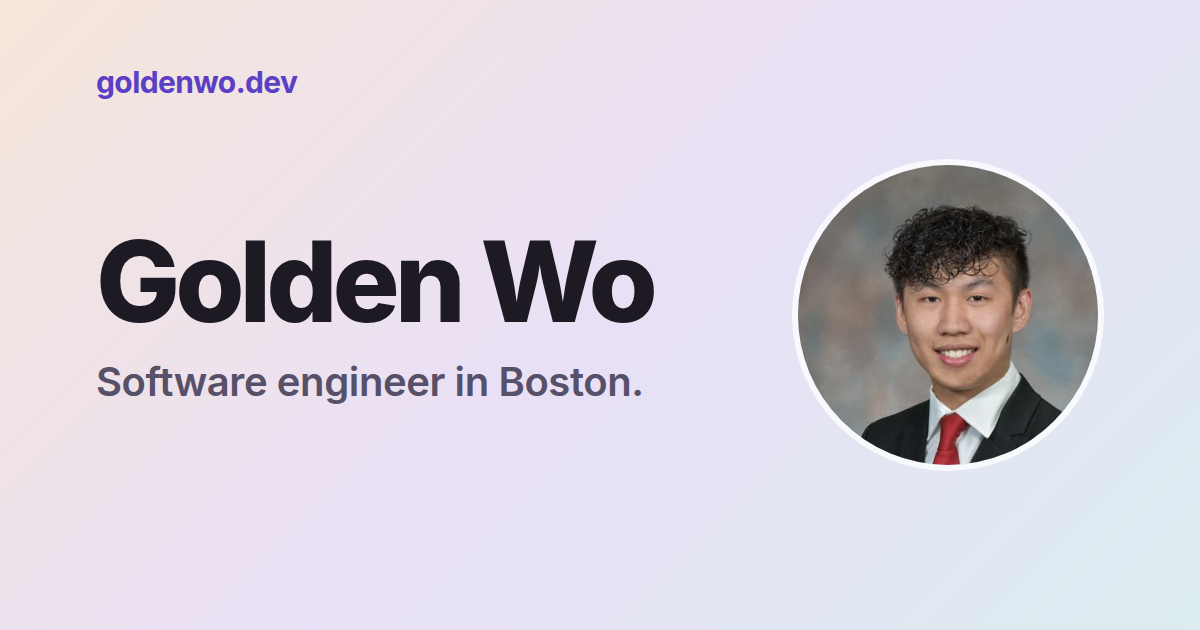
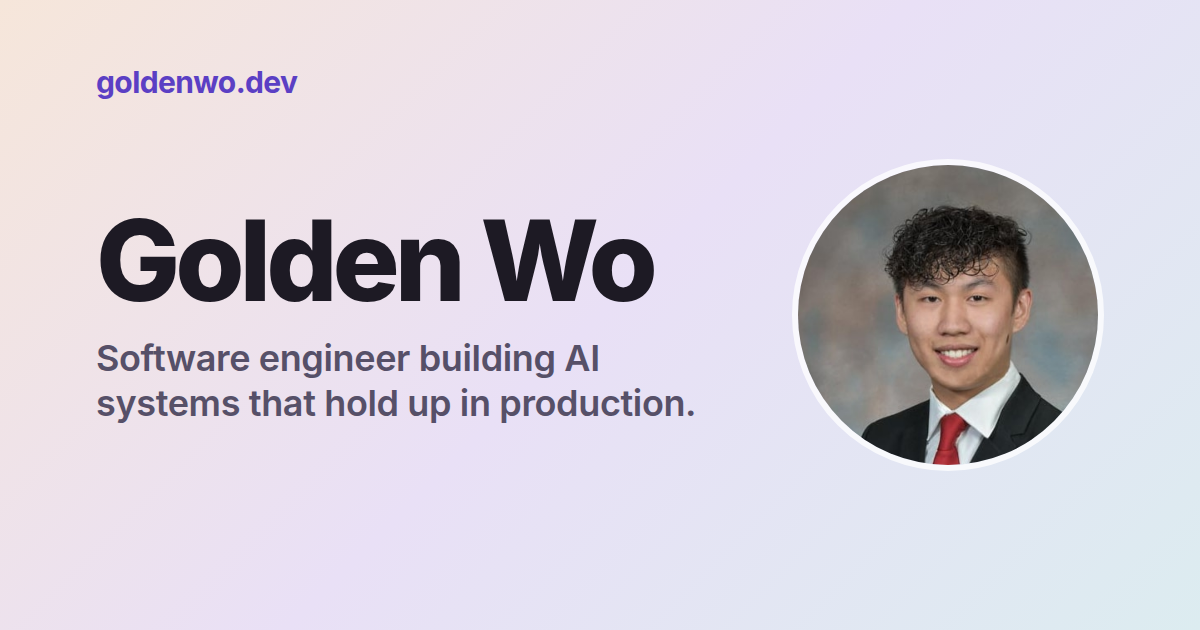
feat(content): position the site around reliable AI systems
Rewrites the copy to match the owner's career direction: an AI-focused
headline and bio, a new Focus section (agent reliability, AI-driven
development, regulated environments), the Fidelity years as a progression
from frontend platform work to AI-driven development, Blindly framed as
where side projects are built, and projects led by a Reliability group
with two private repositories described but not linked.

Drops product-search-ai-agent. Adds tests that keep job-seeking language
off the site, keep Angular out of the pitch, and keep the OG image text in
sync with the headline. OG image regenerated.

Claude-Session: https://claude.ai/code/session_01JG28dVRFy6Rk7WUEe7BRfQ

Changed region(s): [[0.0617, 0.3317, 0.555, 0.5127], [0.0617, 0.5429, 0.5858, 0.6635]]

diff --git a/src/data/projects.ts b/src/data/projects.ts
@@ -1,18 +1,21 @@
 import type { Project, ProjectGroupInfo } from './types';
 
 export const groups: ProjectGroupInfo[] = [
+  { id: 'reliability', title: 'Reliability' },
   { id: 'agent-tooling', title: 'Agent tooling' },
   { id: 'research', title: 'Research and data' },
 ];
 
 export const projects: Project[] = [
   {
-    id: 'universal-memory',
-    name: 'universal-memory',
-    tagline: 'Memory for LLM agents',
-    description: 'Self-hosted, markdown-first memory that follows your agents across devices and sessions.',
-    group: 'agent-tooling',
-    links: { source: 'https://github.com/goldenwo/universal-memory' },
+    id: 'claude-harness-toolkit',
+    name: 'claude-harness-toolkit',
+    tagline: 'Adversarial review harness for Claude Code',
+    description:
+      'Multi-round spec and plan review across 17 defect-class lenses, with automatic convergence detection. In blind runs it caught 11 of 11 planted defects.',
+    group: 'reliability',
+    links: {},
+    private: true,
   },
   {
     id: 'claude-state-drift',
@@ -20,8 +23,26 @@ export const projects: Project[] = [
     tagline: 'Keeps long Claude Code sessions on track',
     description:
       'A per-project state layer: an orientation block at session start, the goal re-injected as you work, and a nudge when state goes stale.',
-    group: 'agent-tooling',
+    group: 'reliability',
     links: { source: 'https://github.com/goldenwo/claude-state-drift' },
+  },
+  {
+    id: 'fleet-watchdog',
+    name: 'fleet-watchdog',
+    tagline: 'A dead box can’t silence its own alarm',
+    description:
+      'Dead-man’s switch for a Raspberry Pi service fleet: the Pi checks in every five minutes, and a Cloudflare Worker raises the alert when check-ins stop.',
+    group: 'reliability',
+    links: {},
+    private: true,
+  },
+  {
+    id: 'universal-memory',
+    name: 'universal-memory',
+    tagline: 'Memory for LLM agents',
+    description: 'Self-hosted, markdown-first memory that follows your agents across devices and sessions.',
+    group: 'agent-tooling',
+    links: { source: 'https://github.com/goldenwo/universal-memory' },
   },
   {
     id: 'attune',
@@ -46,13 +67,5 @@ export const projects: Project[] = [
     description: 'Curated summaries from 35 vetted accounts, refreshed every four hours by a Raspberry Pi.',
     group: 'research',
     links: { site: 'https://goldenwo.github.io/ai-x-feed/', source: 'https://github.com/goldenwo/ai-x-feed' },
-  },
-  {
-    id: 'product-search-ai-agent',
-    name: 'product-search-ai-agent',
-    tagline: 'Shopping research agent',
-    description: 'A FastAPI agent that turns a product search into a short list of the best options.',
-    group: 'research',
-    links: { source: 'https://github.com/goldenwo/product-search-ai-agent' },
   },
 ];

diff --git a/tests/unit/content.test.ts b/tests/unit/content.test.ts
@@ -1,4 +1,4 @@
-import { existsSync } from 'node:fs';
+import { existsSync, readFileSync } from 'node:fs';
 import { expect, test } from 'vitest';
 import { content } from '../../src/data/content';
 import { validateContent } from '../../src/data/validate';
@@ -9,16 +9,38 @@ test('shipped content passes validation', () => {
   expect(validateContent(content, inPublic)).toEqual([]);
 });
 
-test('three timeline rows, newest first', () => {
-  expect(content.roles.map((r) => r.id)).toEqual(['fidelity', 'state-street', 'umass']);
+test('timeline shows the Fidelity progression, newest first', () => {
+  expect(content.roles.map((r) => r.id)).toEqual(['fidelity-ai', 'fidelity-platform', 'state-street', 'umass']);
 });
 
-test('six projects in two groups of three', () => {
-  expect(content.groups.map((g) => g.id)).toEqual(['agent-tooling', 'research']);
-  expect(content.projects.filter((p) => p.group === 'agent-tooling').map((p) => p.id)).toEqual(['universal-memory', 'claude-state-drift', 'attune']);
-  expect(content.projects.filter((p) => p.group === 'research').map((p) => p.id)).toEqual(['edge-catcher', 'ai-x-feed', 'product-search-ai-agent']);
+test('focus lists the three things to be known for', () => {
+  expect(content.focus.map((f) => f.title)).toEqual(['Agent reliability', 'AI-driven development', 'Regulated environments']);
+});
+
+test('projects lead with reliability', () => {
+  expect(content.groups.map((g) => g.id)).toEqual(['reliability', 'agent-tooling', 'research']);
+  const ids = (group: string) => content.projects.filter((p) => p.group === group).map((p) => p.id);
+  expect(ids('reliability')).toEqual(['claude-harness-toolkit', 'claude-state-drift', 'fleet-watchdog']);
+  expect(ids('agent-tooling')).toEqual(['universal-memory', 'attune']);
+  expect(ids('research')).toEqual(['edge-catcher', 'ai-x-feed']);
+  expect(content.projects.filter((p) => p.private).map((p) => p.id)).toEqual(['claude-harness-toolkit', 'fleet-watchdog']);
 });
 
 test('the studio art ships with the site', () => {
   expect(inPublic(content.studio.featured.art.src)).toBe(true);
+});
+
+// Positioning rules from the owner's career-direction brief.
+test('no job-seeking language anywhere while still employed', () => {
+  expect(JSON.stringify(content)).not.toMatch(/open to (work|roles|opportunities)|looking for|job search|available for hire|#opentowork/i);
+});
+
+test('Angular is evidence, never the pitch', () => {
+  for (const text of [content.site.headline, content.site.bio, content.site.description, ...content.focus.map((f) => f.text)]) {
+    expect(text).not.toMatch(/angular/i);
+  }
+});
+
+test('the OG image carries the current headline', () => {
+  expect(readFileSync('scripts/make-images.mjs', 'utf8')).toContain(content.site.headline);
 });

diff --git a/tests/e2e/home.spec.ts b/tests/e2e/home.spec.ts
@@ -2,6 +2,7 @@ import { test, expect } from '@playwright/test';
 import { findPrivateData } from '../../src/privacy.mjs';
 import { roles } from '../../src/data/experience';
 import { groups, projects } from '../../src/data/projects';
+import { focus } from '../../src/data/focus';
 import { site } from '../../src/data/site';
 import { studio } from '../../src/data/studio';
 
@@ -122,9 +123,12 @@ test('the nav stays on one line down to 320px', async ({ page }) => {
 test('a lone last project card spans the row in the two-column layout', async ({ page }) => {
   await page.setViewportSize({ width: 768, height: 900 });
   for (const grid of await page.locator('#projects .grid').all()) {
+    const cards = grid.locator('.card');
     const gridBox = (await grid.boundingBox())!;
-    const lastBox = (await grid.locator('.card').last().boundingBox())!;
-    expect(Math.round(lastBox.width)).toBe(Math.round(gridBox.width));
+    const lastBox = (await cards.last().boundingBox())!;
+    const firstBox = (await cards.first().boundingBox())!;
+    if ((await cards.count()) % 2 === 1) expect(Math.round(lastBox.width)).toBe(Math.round(gridBox.width));
+    else expect(Math.round(lastBox.width)).toBe(Math.round(firstBox.width));
   }
 });
 
@@ -135,4 +139,19 @@ test('on phones the organisation gets its own line, without a separator', async 
   await expect(first.locator('.sep')).toBeHidden();
   await page.setViewportSize({ width: 1280, height: 900 });
   await expect(first.locator('.sep')).toBeVisible();
+});
+
+test('focus sits between the hero and experience, with the three items in order', async ({ page }) => {
+  await expect(page.locator('#focus h3')).toHaveText(focus.map((f) => f.title));
+  await expect(page.locator('#focus p')).toHaveText(focus.map((f) => f.text));
+  const order = await page.locator('main > section').evaluateAll((els) => els.map((e) => e.id));
+  expect(order.slice(0, 3)).toEqual(['top', 'focus', 'experience']);
+});
+
+test('private projects are described but never linked', async ({ page }) => {
+  for (const p of projects.filter((x) => x.private)) {
+    const card = page.locator(`[data-project="${p.id}"]`);
+    await expect(card.locator('.private')).toHaveText('Private repository');
+    await expect(card.locator('a')).toHaveCount(0);
+  }
 });

diff --git a/src/data/site.ts b/src/data/site.ts
@@ -5,12 +5,12 @@ export const site: Site = {
   url: 'https://goldenwo.dev',
   title: 'Golden Wo · Software engineer',
   description:
-    'Golden Wo is a software engineer in Boston working on front-end platforms, AI agent tooling and market research, and the founder of Blindly.',
-  headline: 'Software engineer in Boston.',
-  bio: "I'm a full-stack engineer at Fidelity Investments, where I build the shared Angular libraries and micro-frontends other teams build on, and lately the LLM tooling around them. Outside work I run Blindly, a small software studio for games, agent tooling and market research.",
+    'Golden Wo is a software engineer in Boston building AI systems that hold up in production: agent reliability, AI-driven development, and software for regulated environments.',
+  headline: 'Software engineer building AI systems that hold up in production.',
+  bio: 'I learned engineering inside regulated finance. At Fidelity I went from frontend platform work to AI-driven code migrations and AI developer tooling. On my own time I build under Blindly, from agent tooling to a game I’m making for fun. Based in Boston.',
   jobTitle: 'Software Engineer',
   links: { linkedin: 'https://www.linkedin.com/in/goldenwo/', github: 'https://github.com/goldenwo' },
   resumePdf: null,
   photoAlt: 'Portrait of Golden Wo',
-  ogImageAlt: 'Golden Wo, software engineer in Boston',
+  ogImageAlt: 'Golden Wo, software engineer building AI systems that hold up in production',
 };

diff --git a/tests/unit/validate.test.ts b/tests/unit/validate.test.ts
@@ -25,6 +25,7 @@ const valid = (): Content => ({
     { id: 'tool', name: 'tool', tagline: 'A tool', description: 'Does things.', group: 'agent-tooling', links: { source: 'https://github.com/someone/tool' } },
     { id: 'study', name: 'study', tagline: 'A study', description: 'Finds things.', group: 'research', links: {} },
   ],
+  focus: [{ title: 'Focus', text: 'What I work on.' }],
   studio: {
     name: 'Studio',
     url: 'https://studio.example/',
@@ -90,6 +91,20 @@ describe('validateContent', () => {
     expect(validateContent(c, (path) => path === '/cv.pdf')).toEqual([]);
     c.site.resumePdf = 'cv.docx';
     expect(validateContent(c, () => true)).toContain('site.resumePdf must be an absolute path to a .pdf');
+  });
+
+  test('a private project carries no links', () => {
+    const c = valid();
+    c.projects[0].private = true;
+    expect(validateContent(c, noFiles)).toContain('project tool: a private project cannot have links');
+    c.projects[0].links = {};
+    expect(validateContent(c, noFiles)).toEqual([]);
+  });
+
+  test('focus items need a title and text', () => {
+    const c = valid();
+    c.focus.push({ title: ' ', text: '' });
+    expect(validateContent(c, noFiles)).toContain('focus 1: needs a title and text');
   });
 
   test('rejects email addresses and phone numbers anywhere in the content', () => {

diff --git a/src/data/experience.ts b/src/data/experience.ts
@@ -3,11 +3,18 @@ import type { Role } from './types';
 // Source: the owner's résumé as of 2026-10-05 (marked old). Replace from the updated résumé when it arrives.
 export const roles: Role[] = [
   {
-    id: 'fidelity',
-    when: '2023 – now',
-    title: 'Full-Stack Software Engineer',
+    id: 'fidelity-ai',
+    when: '2026 – now',
+    title: 'Software Engineer',
     org: 'Fidelity Investments',
-    summary: 'Shared Angular libraries and micro-frontends used by 5+ teams; led LLM integration in the monorepo.',
+    summary: 'AI-driven code migrations and AI developer tooling: multi-agent orchestration, MCP servers and spec-driven pipelines.',
+  },
+  {
+    id: 'fidelity-platform',
+    when: '2023 – 2026',
+    title: 'Software Engineer',
+    org: 'Fidelity Investments',
+    summary: 'Frontend platform work in an Angular monorepo: shared libraries used by 5+ teams, test infrastructure, and migrations done by hand.',
   },
   { id: 'state-street', when: '2018, 2021', title: 'Intern', org: 'State Street', summary: 'IT (2018) and Securities Finance (2021).' },
   { id: 'umass', when: '2022', title: 'B.S. Information & Computer Sciences', org: 'UMass Amherst' },

diff --git a/src/data/types.ts b/src/data/types.ts
@@ -1,4 +1,4 @@
-export const PROJECT_GROUPS = ['agent-tooling', 'research'] as const;
+export const PROJECT_GROUPS = ['reliability', 'agent-tooling', 'research'] as const;
 export type ProjectGroupId = (typeof PROJECT_GROUPS)[number];
 
 export interface Site {
@@ -44,8 +44,16 @@ export interface Project {
   /** one or two sentences */
   description: string;
   group: ProjectGroupId;
-  /** https only */
+  /** https only; must be empty when private */
   links: { site?: string; source?: string };
+  /** private repository: described, never linked */
+  private?: boolean;
+}
+
+export interface FocusItem {
+  title: string;
+  /** one line */
+  text: string;
 }
 
 export interface Studio {
@@ -59,6 +67,7 @@ export interface Studio {
 
 export interface Content {
   site: Site;
+  focus: FocusItem[];
   roles: Role[];
   groups: ProjectGroupInfo[];
   projects: Project[];

diff --git a/src/data/validate.ts b/src/data/validate.ts
@@ -38,7 +38,12 @@ export function validateContent(content: Content, publicFileExists: (path: strin
   }
   for (const p of projects) {
     if (!groups.some((g) => g.id === p.group)) errors.push(`project ${p.id}: unknown group "${p.group}"`);
+    if (p.private && Object.values(p.links).some(Boolean)) errors.push(`project ${p.id}: a private project cannot have links`);
   }
+
+  content.focus.forEach((f, i) => {
+    if (!f.title.trim() || !f.text.trim()) errors.push(`focus ${i}: needs a title and text`);
+  });
 
   if (!site.photoAlt.trim()) errors.push('site.photoAlt: the photo needs alt text');
   if (!studio.featured.art.alt.trim()) errors.push('studio.featured.art: the art needs alt text');

diff --git a/src/data/focus.ts b/src/data/focus.ts
@@ -1,0 +1,17 @@
+import type { FocusItem } from './types';
+
+// The three things to be known for, from the owner's career-direction brief.
+export const focus: FocusItem[] = [
+  {
+    title: 'Agent reliability',
+    text: 'Adversarial tests and eval harnesses that catch the silent, structural failures single-turn evals miss.',
+  },
+  {
+    title: 'AI-driven development',
+    text: 'Multi-agent orchestration, MCP servers and spec-driven pipelines that turn epic-sized work into days.',
+  },
+  {
+    title: 'Regulated environments',
+    text: 'Software that has to be correct, traceable and reviewable, learned in financial services.',
+  },
+];

diff --git a/src/data/studio.ts b/src/data/studio.ts
@@ -4,7 +4,8 @@ export const studio: Studio = {
   name: 'Blindly',
   url: 'https://blindly.ai/',
   role: 'Founder',
-  blurb: 'an independent software studio. Its first game, Raccoon Heist: Idle Crates, is in closed testing on Android.',
+  blurb:
+    'where I build on my own time: agent tooling first, plus Raccoon Heist: Idle Crates, a game I’m making for fun (in closed testing on Android). It’s where ideas get tried before they meet production constraints at work.',
   featured: {
     name: 'Raccoon Heist',
     url: 'https://raccoon.blindly.ai/',

diff --git a/src/data/content.ts b/src/data/content.ts
@@ -1,7 +1,8 @@
 import { roles } from './experience';
+import { focus } from './focus';
 import { groups, projects } from './projects';
 import { site } from './site';
 import { studio } from './studio';
 import type { Content } from './types';
 
-export const content: Content = { site, roles, groups, projects, studio };
+export const content: Content = { site, focus, roles, groups, projects, studio };
